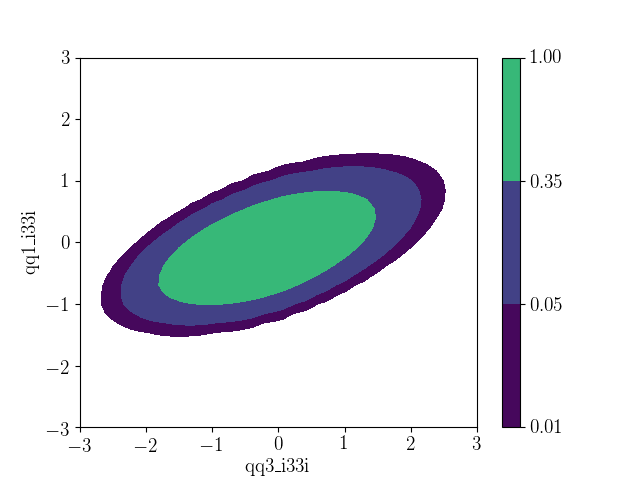
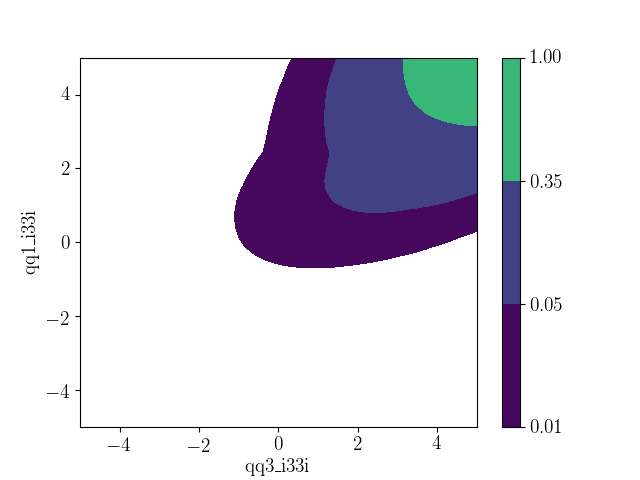
Stop tracking contour plots, modify so individual files don't plot for running allwilcos

diff --git a/ex2/chi2_extended.py b/ex2/chi2_extended.py
@@ -61,9 +61,9 @@ def getAxLen(ellipseConsts):
 	minLen = np.sqrt(denom/minNum)
 
 	if majLen < minLen:
-		return minLen, majLen
+		return minLen, majLen, True
 	else:
-		return majLen, minLen
+		return majLen, minLen, False
 
 def getAxCen(ellipseConsts):
 	""" Returns lenth of the two axes of the ellipse given the ellipse constans from fitting
@@ -91,66 +91,74 @@ def getCoordsInt(number, lenNarrow, lenWide, xCen, yCen, angle):
 
 	return xRotPos+xCen, yRotPos+yCen, xRotNeg+xCen, yRotNeg+yCen
 
-#calculate p
-pArray = np.loadtxt("pArray.txt")
-wilco1 = "qq3_i33i"
-wilco2 = "qq1_i33i"
 
-#plotting noValues*noValues with given x and y ranges
-noValues = 40
-xBins = np.linspace(-3, 3, noValues)
-yBins = np.linspace(-3, 3, noValues)
+def getCoordsFromEllipse(xBins, yBins, pArray, wilco1="qq3_i33i", wilco2="qq1_i33i"):
+	#plot
+	fig, ax = plt.subplots()
+	#cont = ax.contourf(xBins, yBins, chi2Array)
+	cont = ax.contour(xBins, yBins, pArray, [0.05, 0.35]) 
+	#print(cont.collections[0].get_paths()[0].vertices)
+
+	wideCont = cont.allsegs[0][0]
+	narrowCont = cont.allsegs[1][0]
+	#print(wideCont)
+	#print(narrowCont)
+
+	xWide = np.array([x[0] for x in wideCont])
+	yWide = np.array([x[1] for x in wideCont])
+	xNarrow = np.array([x[0] for x in narrowCont])
+	yNarrow = np.array([x[1] for x in narrowCont])
+
+	aWide = fitEllipse(xWide, yWide)
+	aNarrow = fitEllipse(xNarrow, yNarrow)
+	theta = getAngle(aNarrow)
+	lenWideMaj, lenWideMin, swapFlag = getAxLen(aWide)
+
+	lenNarrowMaj, lenNarrowMin, swapFlag = getAxLen(aNarrow)
+	if swapFlag == True:
+		theta = theta + np.pi/2
+
+	xCen, yCen = getAxCen(aNarrow)
+
+	#get positive interpolation xValues
+	numPoints = 50
+	xPos, yPos, xNeg, yNeg = getCoordsInt( 
+		numPoints, lenNarrowMaj, lenWideMaj, xCen, yCen, theta )
 
 
-#plot
-fig, ax = plt.subplots()
-#cont = ax.contourf(xBins, yBins, chi2Array)
-cont = ax.contour(xBins, yBins, pArray, [0.05, 0.35]) 
-#print(cont.collections[0].get_paths()[0].vertices)
+	majPoints = np.linspace(lenNarrowMaj, lenWideMaj, numPoints)
 
-wideCont = cont.allsegs[0][0]
-narrowCont = cont.allsegs[1][0]
-#print(wideCont)
-#print(narrowCont)
-
-xWide = np.array([x[0] for x in wideCont])
-yWide = np.array([x[1] for x in wideCont])
-xNarrow = np.array([x[0] for x in narrowCont])
-yNarrow = np.array([x[1] for x in narrowCont])
-
-aWide = fitEllipse(xWide, yWide)
-aNarrow = fitEllipse(xNarrow, yNarrow)
-theta = getAngle(aWide)
-lenWideMaj, lenWideMin = getAxLen(aWide)
-lenNarrowMaj, lenNarrowMin = getAxLen(aNarrow)
-xCen, yCen = getAxCen(aNarrow)
+	#get for minor axis
+	xPosMin, yPosMin, xNegMin, yNegMin = getCoordsInt( 
+		numPoints, lenNarrowMin, lenWideMin, xCen, yCen, theta-np.pi/2 )
+	minPoints = np.linspace(lenNarrowMin, lenWideMin, numPoints)
 
 
-print(lenWideMaj)
-print(lenNarrowMaj)
+	fig.colorbar(cont, ax=ax)
+	ax.scatter(xPos, yPos, c = 'g', marker='x')
+	ax.scatter(xNeg, yNeg, c = 'g', marker='x')
+	ax.scatter(xPosMin, yPosMin, c = 'r', marker='x')
+	ax.scatter(xNegMin, yNegMin, c = 'r', marker='x')
+	plt.xlabel(wilco1.replace("_",""))
+	plt.ylabel(wilco2.replace("_",""))
+	#plt.show()
+	fig.savefig("contour_plots/rotationtest_{}_{}".format(wilco1.replace("_",""), wilco2.replace("_","")))
+	plt.close()
 
-#get positive interpolation xValues
-numPoints = 50
-xPos, yPos, xNeg, yNeg = getCoordsInt( 
-	numPoints, lenNarrowMaj, lenWideMaj, xCen, yCen, theta )
+	np.savetxt( "analysis_tables/int_vals_maj_{}_{}.txt".format(wilco1, wilco2), np.array( [ 
+			majPoints, xPos, yPos, majPoints, xNeg, yNeg, minPoints, 
+			xPosMin, xNegMin, minPoints, yPosMin, yNegMin ] ) )
 
-majPoints = np.linspace(lenNarrowMaj, lenWideMaj, numPoints)
+if __name__ == "__main__":
+	#calculate p
+	pArray = np.loadtxt("pArray.txt")
+	wilco1 = "qq3_i33i"
+	wilco2 = "qq1_i33i"
 
-#get for minor axis
-xPosMin, yPosMin, xNegMin, yNegMin = getCoordsInt( 
-	numPoints, lenNarrowMin, lenWideMin, xCen, yCen, theta-np.pi/2 )
-minPoints = np.linspace(lenNarrowMin, lenWideMin, numPoints)
+	#plotting noValues*noValues with given x and y ranges
+	noValues = 40
+	xBins = np.linspace(-3, 3, noValues)
+	yBins = np.linspace(-3, 3, noValues)
 
-fig.colorbar(cont, ax=ax)
-ax.scatter(xPos, yPos, c = 'g', marker='x')
-ax.scatter(xNeg, yNeg, c = 'g', marker='x')
-ax.scatter(xPosMin, yPosMin, c = 'r', marker='x')
-ax.scatter(xNegMin, yNegMin, c = 'r', marker='x')
-plt.xlabel(wilco1)
-plt.ylabel(wilco2)
-plt.show()
-fig.savefig("contour_plots/rotationtest_{}_{}".format(wilco1.replace("_",""), wilco2.replace("_","")))
+	getCoordsFromEllipse(xBins, yBins, pArray, wilco1, wilco2)
 
-np.savetxt( "int_vals_maj.txt", np.array( [ 
-		majPoints, xPos, yPos, majPoints, xNeg, yNeg, minPoints, 
-		xPosMin, xNegMin, minPoints, yPosMin, yNegMin ] ) )

diff --git a/ex2/chi2.py b/ex2/chi2.py
@@ -27,41 +27,9 @@ def getPred(fh, wcdict):
 	prediction = fh.predict(**wcdict)#iqq3_i33i=wcValue2)#, uG_33=wcValue2)#
 	return [x[0] for x in prediction.values]
 
-if __name__ == "__main__":
-	#wilco1 = "qq3_i33i"
-	#wilco2 = "qq1_i33i"
-	wilco1 = "uu_i33i"
-	wilco2 = "uu_ii33"
 
-	#generate prediction array from data
-	#af = AnalysisFrame.from_hdf('/nfs/topfitter/sbrown/HDF/analyses/ATLAS_2017_I1604029/ATLAS_2017_I1604029.h5')
-	af = AnalysisFrame.from_hdf('../../HDF/CMS_2018_I1662081.h5')
-	pa = PredictionArray(af.xr)
-	fh = FitHandler(pa)
 
-	#get data values and error
-	obs = np.array([x[0] for x in fh.reference.values])
-	err = np.array([x[1] for x in fh.reference.values])
-	print(err)
-
-	wcdict = {}
-	wcnames = pa.wilcos
-	for name in wcnames:
-		wcdict[name] = 0.
-
-	print(pa.wilcos)
-	#print(pa.reference)
-	#print(fh.reference)
-	#print(pa.atpoint(G=1, qq3_i33i=1))
-	#print(chisquare(obs, [x[0] for x in pa.atpoint(G=3, qq3_i33i=3).values]))
-
-	#split by observable? use pa.reference.loc[level, 'value'] to get list instead
-
-	
-	#plotting noValues*noValues with given x and y ranges
-	noValues = 40
-	xBins = np.linspace(-3, 3, noValues)
-	yBins = np.linspace(-3, 3, noValues)
+def getPPlot(fh, wcdict, noValues, xBins, yBins, obs, err, wilco1 = "qq3_i33i", wilco2 = "qq1_i33i"):
 
 	i = 0
 	j = 0
@@ -86,7 +54,7 @@ if __name__ == "__main__":
 	#calculate p
 	pArray = chi2.sf(chi2Array, 2)
 
-	np.savetxt("pArray.txt", pArray)
+	np.savetxt("analysis_tables/pArray_{}_{}.txt".format(wilco1, wilco2), pArray)
 	#print(chi2Array)
 	#print(pArray)
 
@@ -98,5 +66,47 @@ if __name__ == "__main__":
 	fig.colorbar(cont, ax=ax)
 	plt.xlabel(wilco1.replace("_", r"\_"))
 	plt.ylabel(wilco2.replace("_", r"\_"))
-	plt.show()
+	#plt.show()
 	fig.savefig("contour_plots/contours_p_{}_{}.png".format(wilco1, wilco2))
+	plt.close(fig)
+
+	return pArray
+
+def setupChi2(afPath = '../../HDF/CMS_2018_I1662081.h5'):
+	#generate prediction array from data
+	#af = AnalysisFrame.from_hdf('/nfs/topfitter/sbrown/HDF/analyses/ATLAS_2017_I1604029/ATLAS_2017_I1604029.h5')
+	af = AnalysisFrame.from_hdf(afPath)
+	pa = PredictionArray(af.xr)
+	fh = FitHandler(pa)
+
+	
+	#get data values and error
+	obs = np.array([x[0] for x in fh.reference.values])
+	err = np.array([x[1] for x in fh.reference.values])
+	#print(err)
+
+	wcdict = {}
+	wcnames = pa.wilcos
+	for name in wcnames:
+		wcdict[name] = 0.
+
+	#print(pa.wilcos)
+	#print(pa.reference)
+	#print(fh.reference)
+	#print(pa.atpoint(G=1, qq3_i33i=1))
+	#print(chisquare(obs, [x[0] for x in pa.atpoint(G=3, qq3_i33i=3).values]))
+
+	#split by observable? use pa.reference.loc[level, 'value'] to get list instead
+
+	
+	#plotting noValues*noValues with given x and y ranges
+	noValues = 40
+	xBins = np.linspace(-5, 5, noValues)
+	yBins = np.linspace(-5, 5, noValues)
+
+	return fh, wcdict, noValues, xBins, yBins, obs, err
+
+if __name__ == "__main__":
+	fh, wcdict, noValues, xBins, yBins, obs, err = setupChi2()
+
+	getPPlot(fh, wcdict, noValues, xBins, yBins, obs, err)

diff --git a/ex2/analysis.py b/ex2/analysis.py
@@ -18,16 +18,14 @@ def plotMut(mutInfReg, indexRef, uniqRef, name, w1, w2):
     length = len(mutInfReg[0])
     bins = range(0, length+1, 1)
     fig, ax = plt.subplots()
-    plotHist(ax, bins, mutInfReg[0])
-    plotHist(ax,bins,mutInfReg[1], colour='r')
+    plotHist(ax, bins, mutInfReg[0], label='Positive values')
+    plotHist(ax,bins,mutInfReg[1], label = 'Negative Values', colour='r')
     plt.xticks(indexRef, uniqRef, fontsize=10, rotation=0, ha='left')
-    #plt.subplots_adjust(bottom=0.2)
     plt.xlabel("Bins of observables")
     plt.ylabel("Mutual info regression score")
-    plt.title("Mutual info for the {} axis of ellipse and for wilcos {} and {}".format(name, w1, w2),
-               fontsize=12)
-    plt.savefig('mutual_info_{}'.format(name))
-    plt.show()
+    plt.legend()
+    plt.savefig('analysis_plots/mutual_info_{}'.format(name))
+    #plt.show()
     plt.close(fig)
 
 def analyse(wilco1="uu_i33i", wilco2="uu_ii33", afPath='../../HDF/CMS_2018_I1662081.h5'):
@@ -49,7 +47,7 @@ def analyse(wilco1="uu_i33i", wilco2="uu_ii33", afPath='../../HDF/CMS_2018_I1662
         wcdict[name] = 0.
 
     #load in analysis from file
-    loadArr = np.loadtxt("int_vals_maj.txt")
+    loadArr = np.loadtxt("analysis_tables/int_vals_maj_{}_{}.txt".format(wilco1, wilco2))
 
     #initialise loop variables
     #pred = np.zeros((loadArr[0].size, len(obs)))
@@ -89,9 +87,8 @@ def analyse(wilco1="uu_i33i", wilco2="uu_ii33", afPath='../../HDF/CMS_2018_I1662
 
     return mutInfs , fh.reference.index
 
-def main():
-    wilco1 = "qq3_i33i"
-    wilco2 = "qq1_i33i"
+def analyseWilcos(wilco1 = "qq3_i33i", wilco2 = "qq1_i33i"):
+    
     mutInfReg, ref = analyse(wilco1=wilco1, wilco2=wilco2)
 
     #get unique copies of each index
@@ -112,11 +109,8 @@ def main():
     plotMut(mutInfReg[2:4], indexRef, uniqRef, "min", 
             wilco1.replace('_', r'\_'), wilco2.replace('_', r'\_'))
 
-
-    #fig, ax = plt.subplots()
-
     #plt.show()
     return 0
 
 if __name__ == "__main__":
-    main()
+    analyseWilcos()
